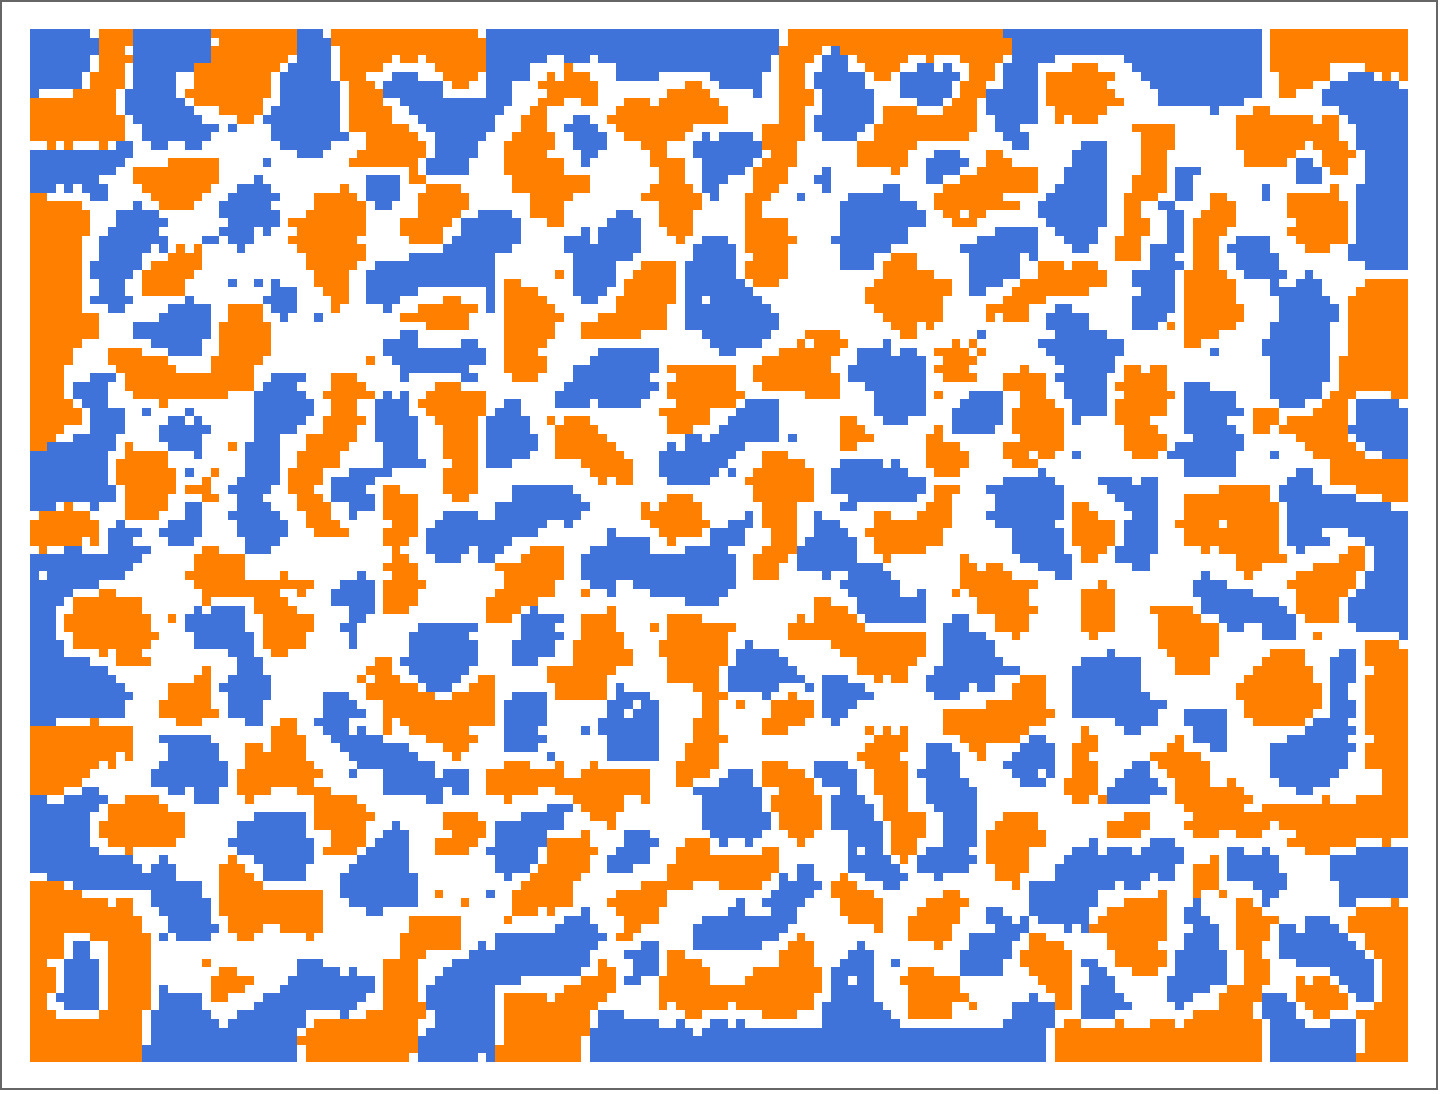
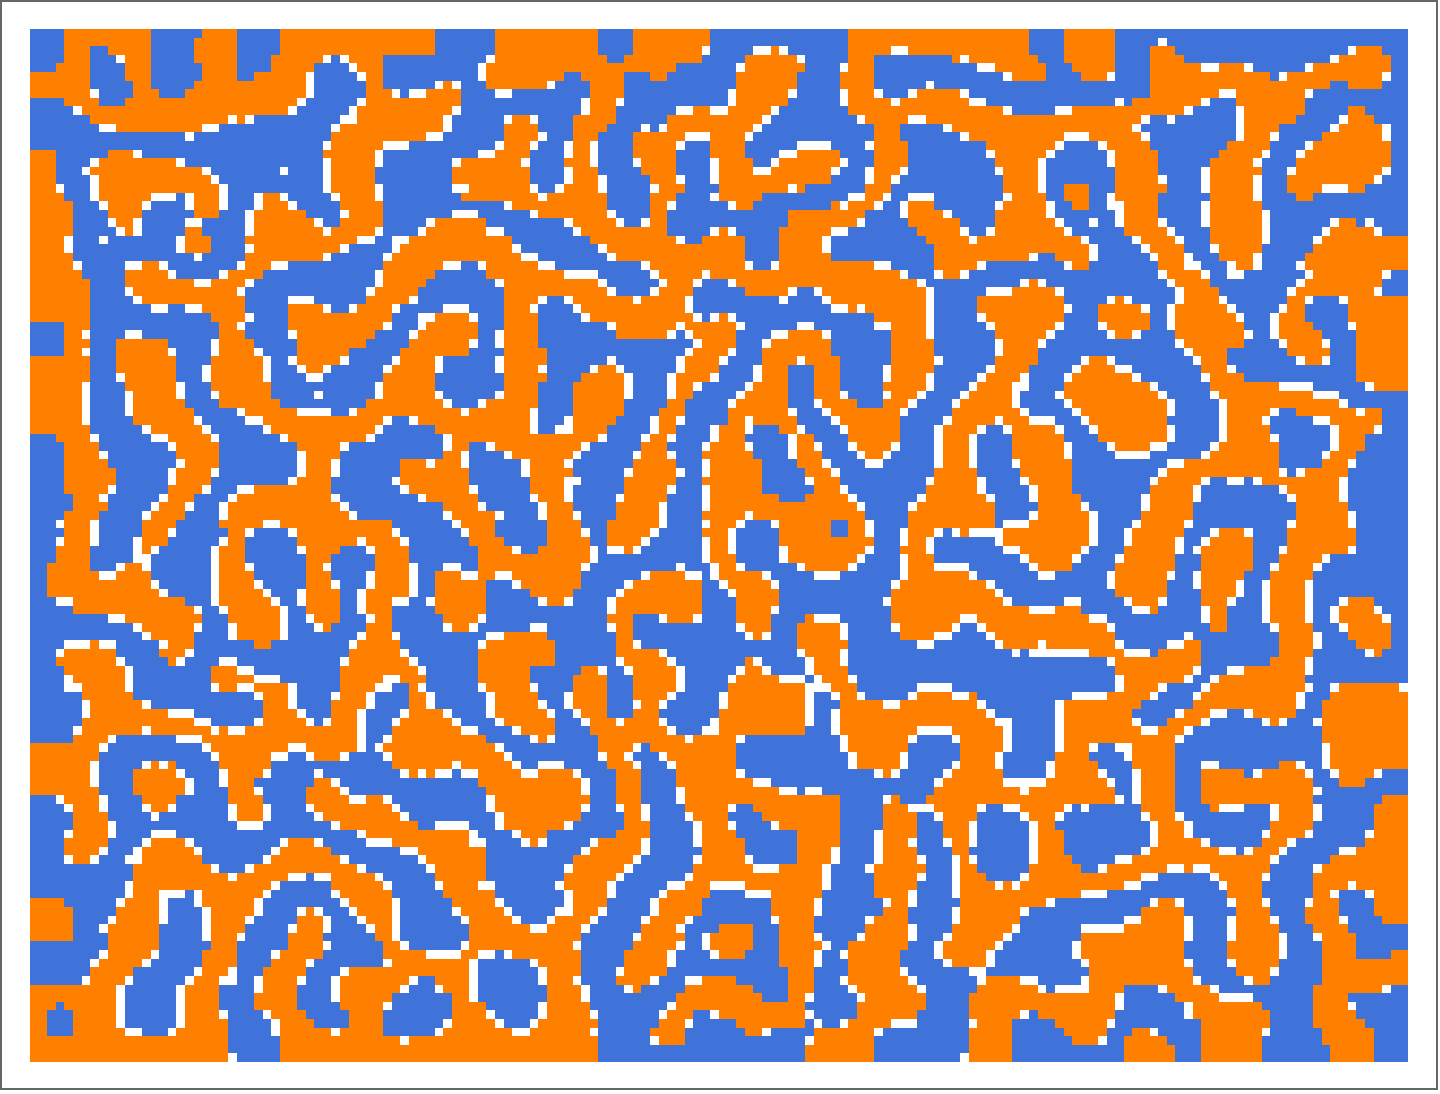
Registry colors leave orange/blue to composition; realistic interfacial vacancies
Checkerboard registries are now green/red and stripe registries
yellow/turquoise (saturated = vertical, light = horizontal) in both the
order-parameter maps and the phase map, so orange/blue appears only where
it means composition. Each map family gets its own diverging color
function (keeping the LogisticSigmoid contrast sharpening); the phase-map
palette and legend, checkerboard tooltip, usage messages, and README match.

Demo figures now use positive chemical potentials so interfaces between
the orange and blue phases carry only a light decoration of vacancies
instead of wide wetting channels; new readme_demo.wls regenerates the
README header figure. All figures regenerated.

diff --git a/README.md b/README.md
@@ -22,8 +22,9 @@ because it does not need mass transport.
 ![Coarsening demo](demo.png)
 
 *Demo: 120 × 160 lattice after 5 × 10⁷ moves with attractive like-atom bonds —
-orange and blue domains coarsening around vacancy channels, with atom exchange
-at the free boundary.*
+orange and blue domains coarsening, with a light decoration of vacancies at
+the domain boundaries and atom exchange with the gas at the free boundary.
+Regenerate with `readme_demo.wls`.*
 
 ## Model
 
@@ -124,6 +125,7 @@ attempts.
 | `LatticeGasMC.wl` | The package: compiled MC kernels plus setup, measurement, order-parameter, and plotting utilities |
 | `test_lgmc.wls` | Validation suite and benchmarks (`wolframscript -file test_lgmc.wls`) |
 | `order_parameter_demo.wls` | Regenerates `order_parameters.png` and `phase_maps.png` from three simulated microstructures |
+| `readme_demo.wls` | Regenerates `demo.png`, the header figure |
 
 ## Usage
 
@@ -257,8 +259,10 @@ for `energyNearest` < 0, checkerboard for `energyNearest` > 0 with
 
 **Phase map.** For lectures, `latticeGasPhaseMapPlot` condenses the five
 maps into one panel: each site is colored by whichever order parameter
-dominates locally — hue identifies the phase, light vs dark shade the
-registry variant — with gray where no order parameter reaches
+dominates locally — orange/blue for composition-rich regions, red/green for
+the checkerboard registries, turquoise/yellow for the stripe registries
+(saturated for vertical stripes, light for horizontal) — with gray where no
+order parameter reaches
 `orderThreshold` (default 0.4) and white where the occupancy is below ½.
 Domain walls appear as thin gray (disordered) bands between colored
 domains: